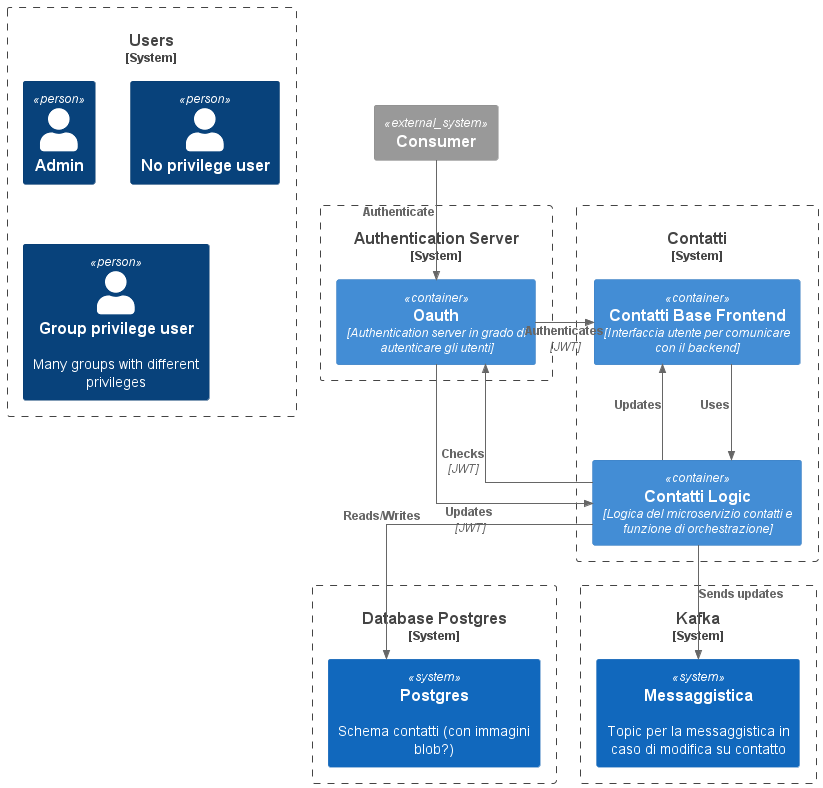
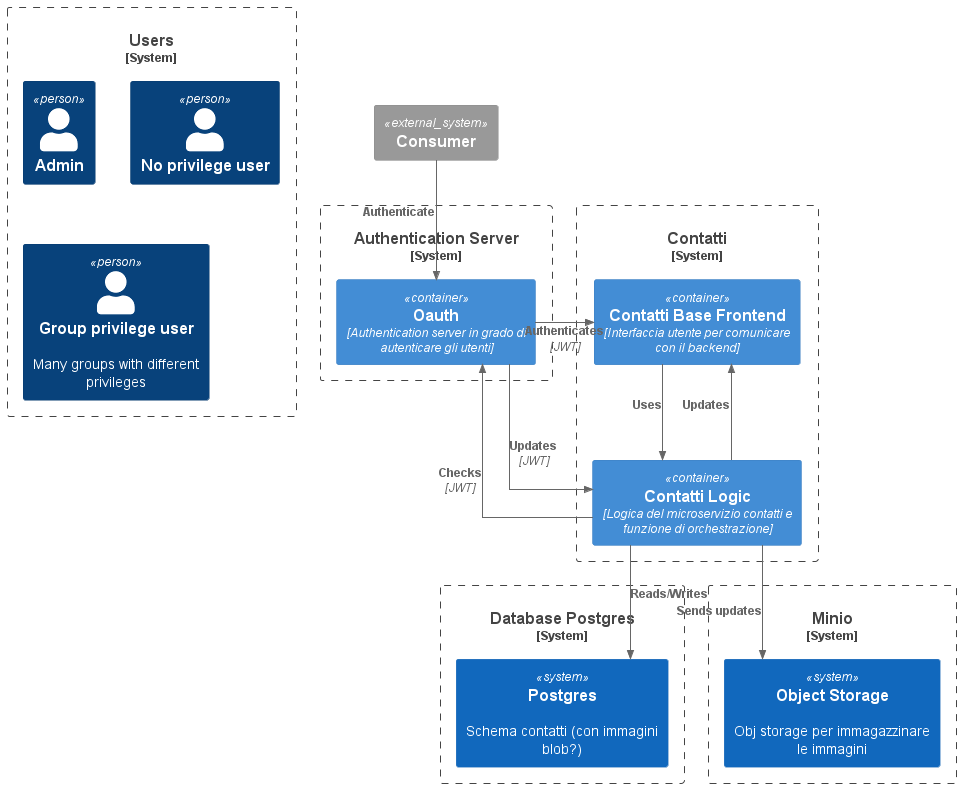
Changed docs

diff --git a/docs/rel/problematiche.md b/docs/rel/problematiche.md
@@ -1,0 +1,7 @@
+# Possibili problematiche
+
+Osservando il profetto e, in generale, ricercando su internet abbiamo trovato delle possibili problematiche che potrebbero sorgere durante lo sviluppo applicativo come:
+
+* Come gestire le immagini, se con un blob nel DB o utilizzando un *Object Storage* come Minio in locale.
+* Necessità di utilizzare un Authentication server.
+* La pagina web deve essere gestita da SpringBoot caricandola insieme al servizio?
